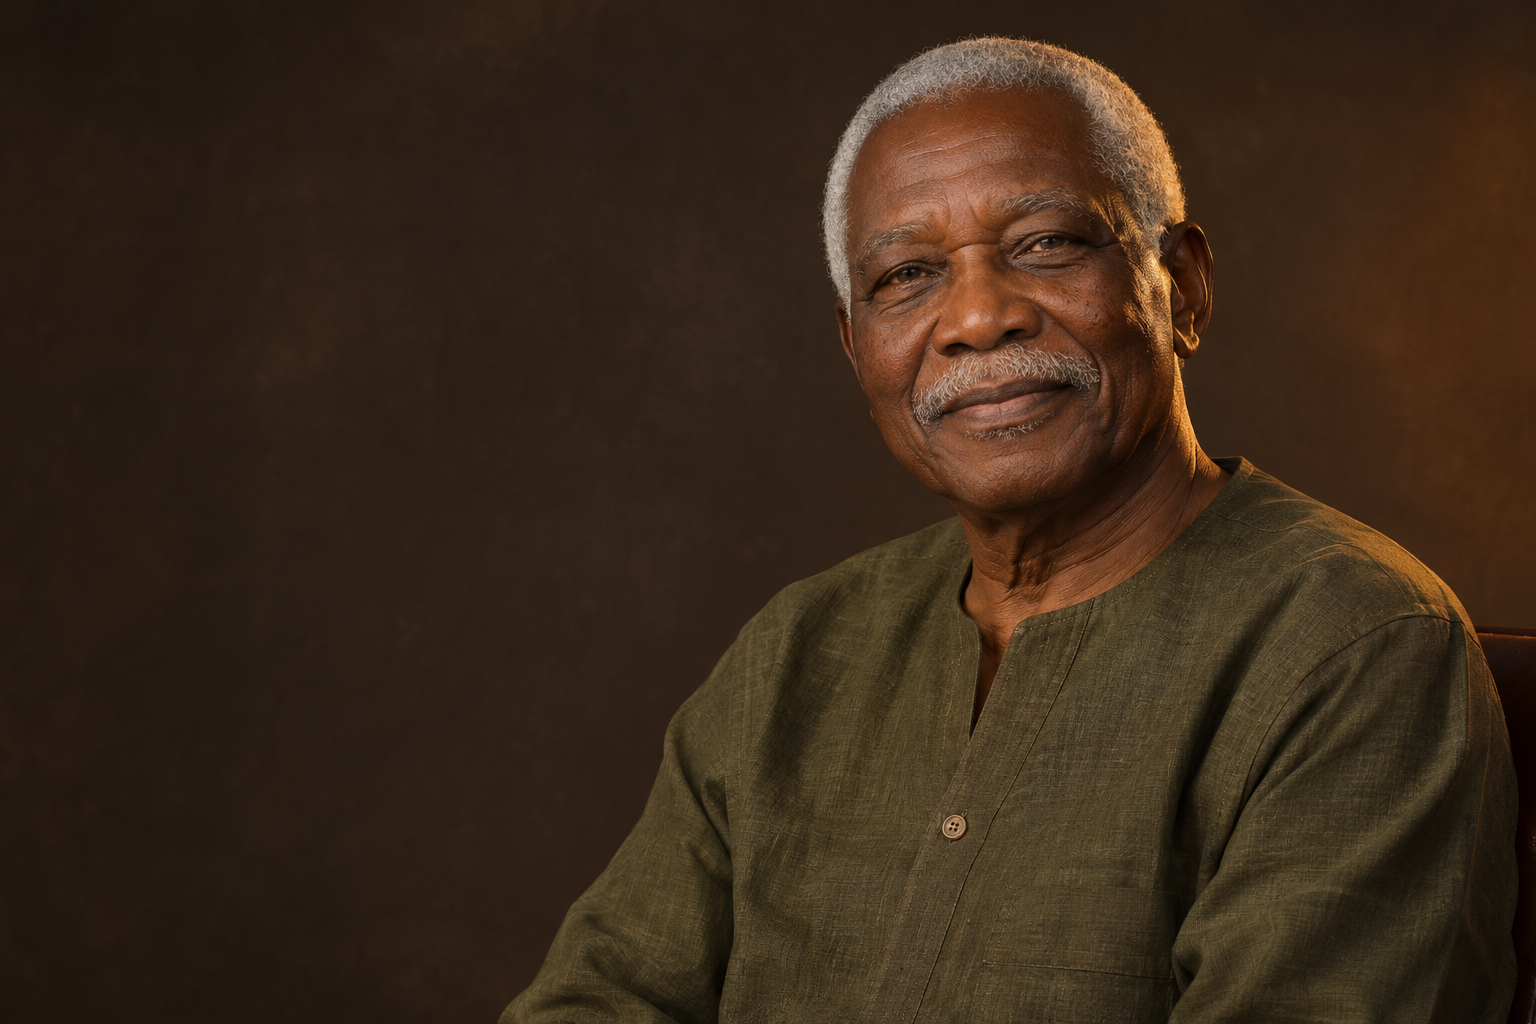
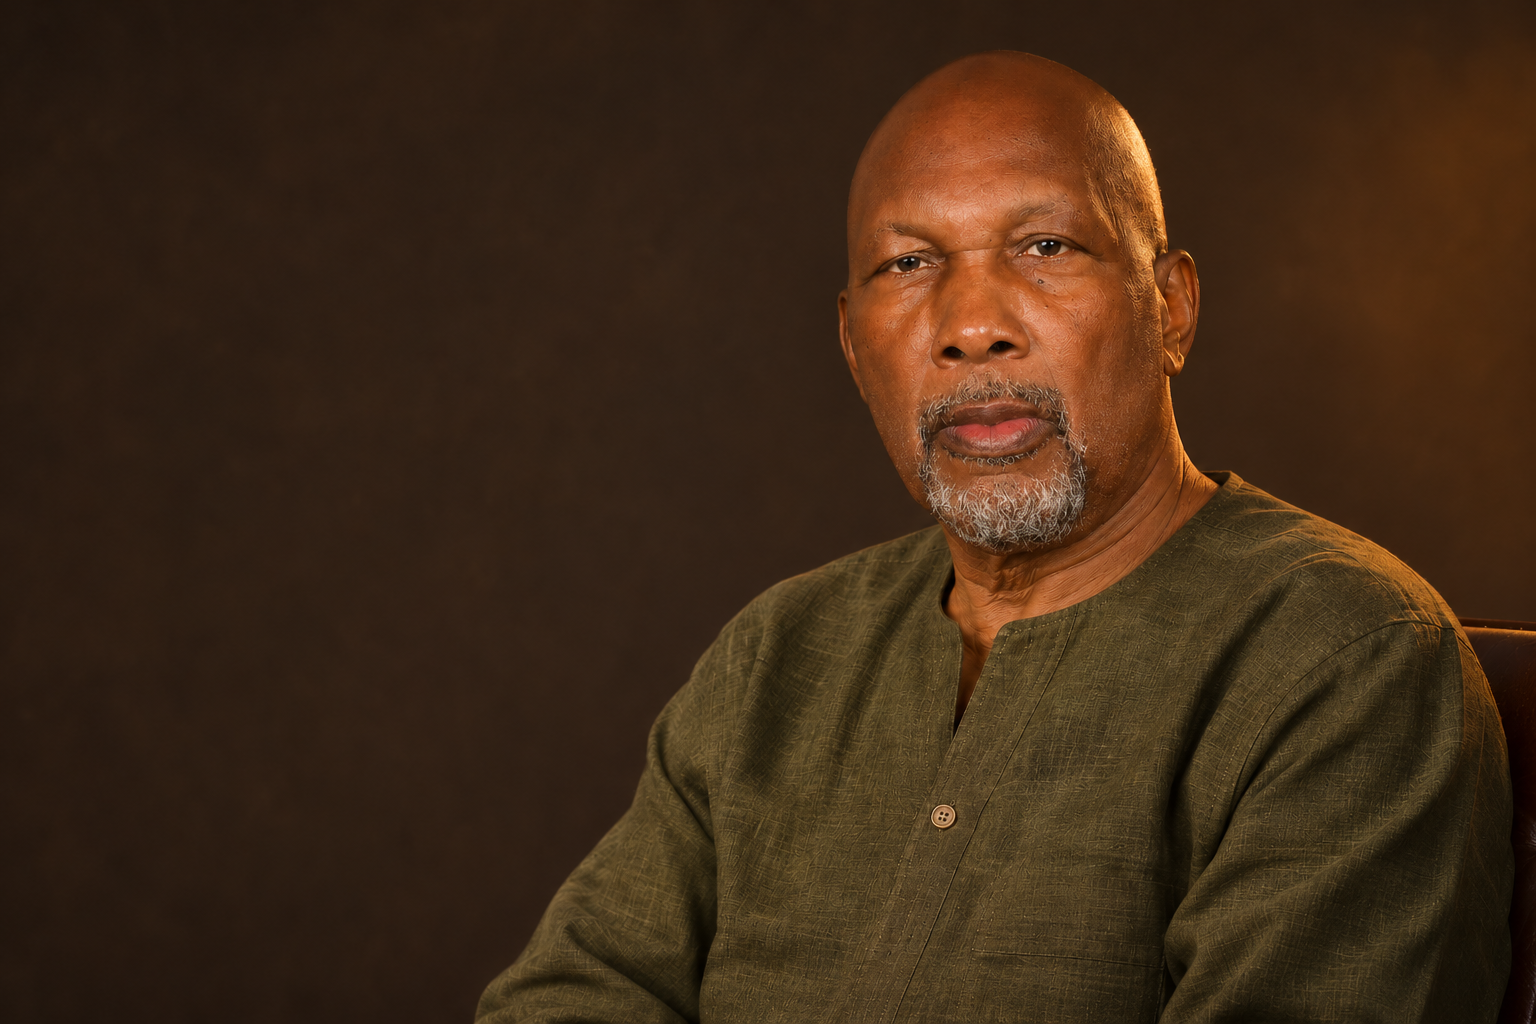
fix: date de deces au 25 septembre 2024 et mise a jour de l'image hero

Changed region(s): [[0.3125, 0.0312, 1.0, 1.0], [0.875, 0.9688, 0.9062, 1.0], [0.875, 0.8125, 0.9062, 0.8438]]

diff --git a/index.html b/index.html
@@ -27,7 +27,7 @@
           <h1>BIZIMBO</h1>
           <p class="cover-real-name">Kakou Djidji</p>
           <div class="cover-rule"></div>
-          <p class="cover-dates">1946 <span>·</span> 2025</p>
+          <p class="cover-dates">1946 <span>·</span> 2024</p>
           <p class="cover-place">Akalékro · Côte d’Ivoire</p>
         </div>
         <button class="open-book cover-turn-hint" id="open-book" type="button">Ouvrir le livre <span>→</span></button>
@@ -176,7 +176,7 @@
           <div class="page-main letter-page">
             <div class="letter-sheet-box">
               <div class="letter-meta">
-                <span>En mémoire de Kakou Djidji (1946 – 2024)</span>
+                <span>En mémoire de Kakou Djidji (1946 – 25 septembre 2024)</span>
                 <span>Lettre d'adieu</span>
               </div>
 
@@ -272,7 +272,7 @@
                 </div>
                 <div class="letter-sign-name">
                   <strong>BIZIMBO</strong>
-                  <span>Kakou Djidji · 1946 — 2024</span>
+                  <span>Kakou Djidji · 1946 — 25 septembre 2024</span>
                 </div>
               </div>
             </div>

diff --git a/content/lettre-adieu.md b/content/lettre-adieu.md
@@ -1,6 +1,6 @@
 # Lettre d'adieu à Papa
 
-*En mémoire de Kakou Djidji (1946 – 2024)*
+*En mémoire de Kakou Djidji (1946 – 25 septembre 2024)*
 
 ---
 
